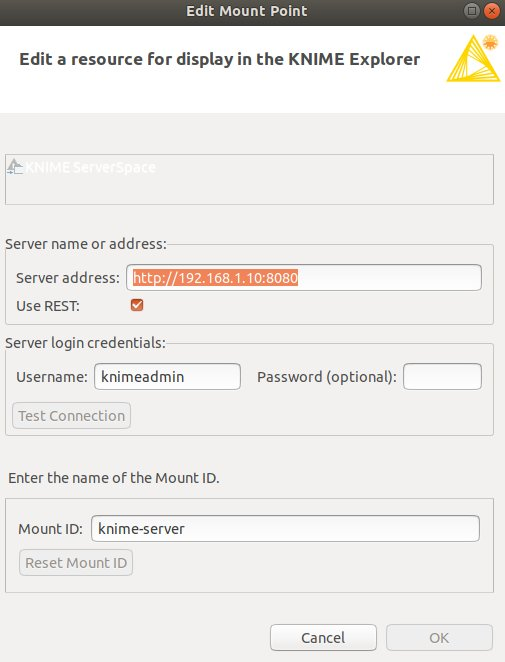
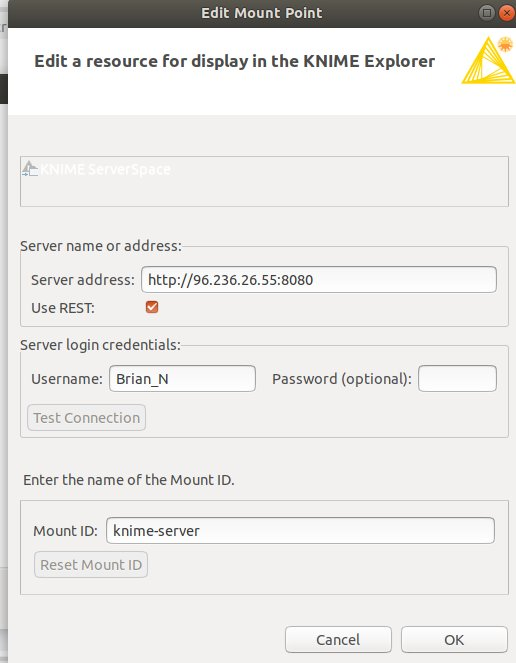
Fix IP Address

diff --git a/Module1/KNIME.md b/Module1/KNIME.md
@@ -22,7 +22,7 @@ Please [watch this video](https://www.youtube.com/watch?v=dPoWbC-mODM).
 
 Follow the instructions in the video, when you get to the 'Edit Mount Point' dialog, make sure the Server Address and 'MountID' are as in the below screen shot.  The username should be your unique username
 
-Server address: http://192.168.1.10:8080  
+Server address: http://96.236.26.55:8080
 Username: -your user name- (see announcement on blackboard)  
 Password: inf428  
 
